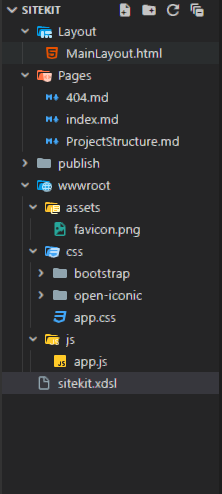
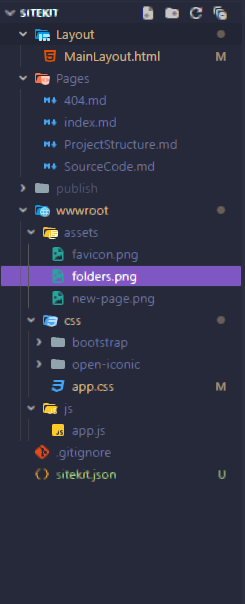
Update based on latest changes of SiteKit.

diff --git a/wwwroot/css/app.css b/wwwroot/css/app.css
@@ -7,9 +7,9 @@ body {
 }
 
 header {
-    background-image: linear-gradient(90deg, rgb(59, 0, 136) 0%,rgb(30, 0, 87) 70%);
+    background-image: linear-gradient(90deg, rgb(63, 0, 136) 0%, #210057 70%);
     color: white;
-    padding: 1.5rem 0;
+    padding: 2rem 0;
     text-align: center;
 }
 
@@ -32,13 +32,8 @@ nav a {
 }
 
 nav a:hover {
-    background-color: #310081cc;
-    color: white;
-}
-
-nav a:active {
-    background-color: #3f00a5cc;
-    color: white;
+    background-color: #4e0081cc;
+    color: black;
 }
 
 .container {
@@ -56,10 +51,8 @@ footer {
     background-color: #414141;
     color: white;
     text-align: center;
-    padding: 1rem 0;
-    position: fixed;
+    padding: 1.5rem 0;
     width: 100%;
-    bottom: 0;
 }
 
 ul {

diff --git a/Layout/MainLayout.html b/Layout/MainLayout.html
@@ -6,8 +6,7 @@
     <link href="css/open-iconic/font/css/open-iconic-bootstrap.min.css" rel="stylesheet" />
     <link rel="shortcut icon" href="assets/favicon.png" type="image/png">
     <script src="js/app.js"></script>
-    <script src="/path/to/highlight.pack.js"></script>
-    <script>hljs.initHighlightingOnLoad();</script>
+
     <title>{{$Page.Title}}</title>
 </head>
 
@@ -36,7 +35,7 @@
     </div>
 
     <footer>
-        <p>&copy; 2025 {{$Site.Name}} by Realtin. All rights reserved.</p>
+        <p>&copy; <strong>2025 {{$Site.Name}}. All rights reserved.</strong></p>
     </footer>
 </body>
 </html>

diff --git a/Pages/index.md b/Pages/index.md
@@ -1,4 +1,3 @@
-#! {{$Site.Name}}- Home
 # SiteKit  
 
 SiteKit is a command-line tool designed to simplify the creation, building, and serving of static websites. It provides a streamlined workflow for developers to quickly scaffold new projects, build static assets, and serve them locally for testing.  
@@ -25,7 +24,6 @@ cd ./SiteKit
 ./install.ps1 # For Windows
 ./install.sh # For Linux/MacOS
 ```
-
 ## Usage  
 
 ### Commands  
@@ -39,15 +37,31 @@ Create a new site project.
 Build the static site from source files.
 #### `serve`  
 Serve the site locally for testing.
-- `-u, --url`: (Optional) The URL to serve the site.  
+- `-u, --url`: (Optional) The URL to serve the site. Defaults to `http://localhost:9443/`.  
+- `-u, --url`: (Optional) The URL to serve the site. Defaults to `http://localhost:9443/`.  
 - `--no-build`: (Optional) Skip the build step before serving.  
 
 ## Project Structure  
 
 A typical SiteKit project has the following structure:
+```bash
+myBlog/
+├─ Pages/          # Your Markdown or HTML pages
+├─ wwwroot/        # CSS, images, JS, etc.
+├─ sitekit.json    # Site configuration (title, properties, etc.)
+└─ publish/        # Auto-generated static output
+```
+
 ## Configuration  
 
-The `sitekit.xdsl` file contains the configuration for your site. Example:
+The `sitekit.json` file contains the configuration for your site. Example:
+```json
+{
+  "Name": "SiteKit",
+  "Properties": {}
+}
+```
+
 ## Development  
 
 ### Building the Project  
@@ -62,20 +76,3 @@ To run the tests, use:
 ~~~bash
 sitekit serve
 ~~~
-## Contributing  
-
-Contributions are welcome! Please follow these steps:  
-
-1. Fork the repository.  
-2. Create a new branch for your feature or bug fix.  
-3. Commit your changes and push them to your fork.  
-4. Submit a pull request.  
-
-## License  
-
-This project is licensed under the GNU GENERAL PUBLIC License. See the `LICENSE` file for details.  
-
-## Acknowledgments  
-
-- [Cocona](https://github.com/mayuki/Cocona) for command-line parsing.  
-- [Markdig](https://github.com/xoofx/markdig) for Markdown processing.

diff --git a/Pages/ProjectStructure.md b/Pages/ProjectStructure.md
@@ -26,6 +26,6 @@ To add a new page, simply create a file in the Pages folder. You can use either 
 ----
 
 
-## Overview of the sitekit.xdsl File
+## Overview of the sitekit.json File
 
-The `sitekit.xdsl` file contains metadata about your site, including user-defined properties. Xdsl (Extensible Data Structure Language) is a custom markup language developed by Realtin; in most cases, valid XML is also acceptable as Xdsl.
+The `sitekit.json` file contains metadata about your site, including user-defined properties.
